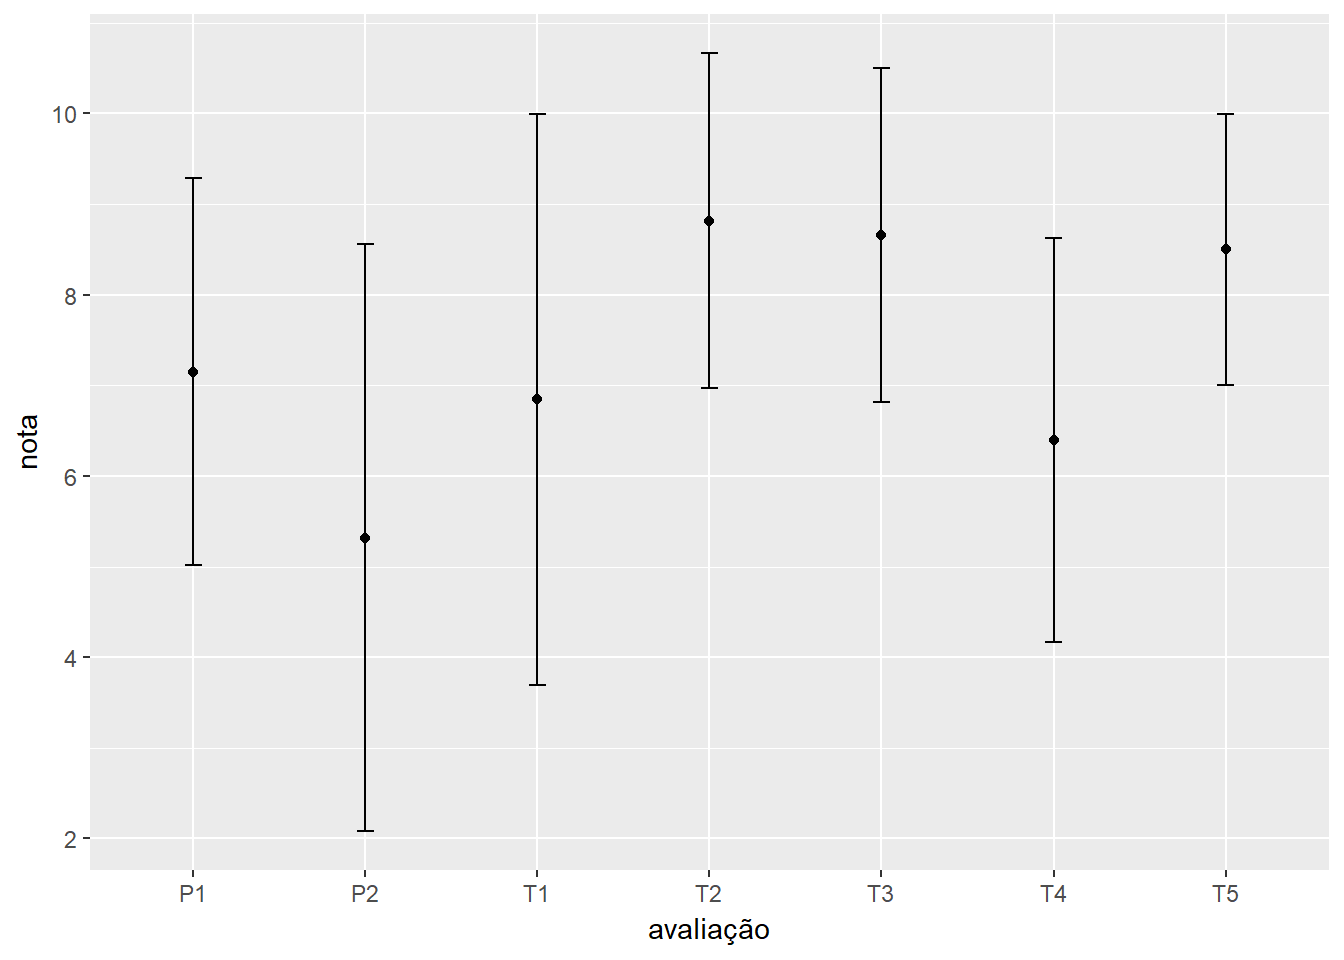
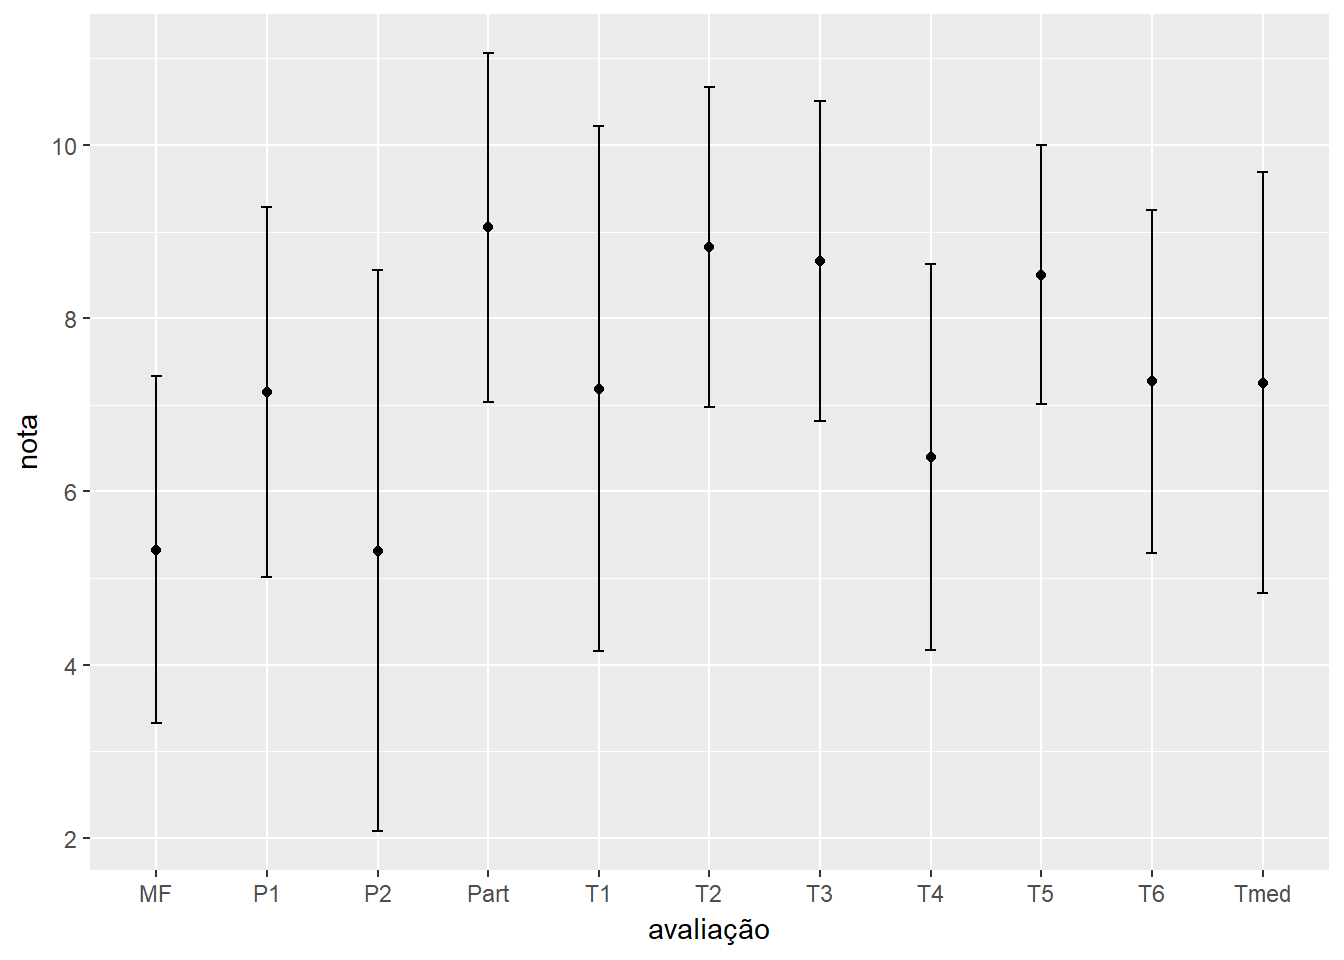
2018-2: probability 1; grade update

diff --git a/content/classes/2018_2_prob_1/grades.html b/content/classes/2018_2_prob_1/grades.html
@@ -14,7 +14,6 @@ subtitle: "2o semestre de 2018"
 <script src="/rmarkdown-libs/crosstalk/js/crosstalk.min.js"></script>
 
 
-<p>1</p>
 <div id="notas" class="section level1">
 <h1>Notas</h1>
 <ul>
@@ -24,7 +23,7 @@ subtitle: "2o semestre de 2018"
 <div id="notas-1" class="section level3">
 <h3>Notas</h3>
 <div id="htmlwidget-1" style="width:100%;height:auto;" class="datatables html-widget"></div>
-<script type="application/json" data-for="htmlwidget-1">{"x":{"filter":"none","data":[[530,560,1923,2449,2718,2728,2735,4149,4459,4843,4844,4851,4860,4861,4882,7653,7862,8172,8310,8549,8557,8584,8642,8655,8695,8897,8934],[2,7.5,9.5,8,9,9,9.5,10,0,1,2,2,8.5,7,2.5,7,1.5,9.5,9,10,9.5,5.5,8,8.5,8.5,10,3.5],[8,4.5,8,10,3.5,10,10,7,0,8,0,0,10,8,10,0,10,10,10,10,10,9,10,10,8,10,0],[10,7.5,10,0,10,10,10,6.5,0,8.5,8,0,5,6.5,10,0,7.5,10,6.5,10,10,10,10,10,4.5,10,0],[6,7.5,2,7.5,7.5,6,8,0,0,4,0,0,6.5,0,3.5,0,6,2,6,7,6,8,10,9,0,9,0],[10,7,10,7,9,5,9.5,8.5,0,0,0,0,6,0,8,0,0,8.5,8.5,10,7.5,9,9.5,10,0,10,0],[4.8,4.3,7.5,7.5,8.8,9,8.5,7.3,0,4.3,4.3,0,8,4.3,6.5,0,3.5,7.5,5.8,8.5,9,9.3,10.5,10.5,5.8,9,0],[4.5,2.5,6.5,4,6,2.5,6.8,4,0,1,0.5,0,4.8,0.5,5.8,0,1.5,8.8,8,7.5,9.5,6.8,10,9.8,1,10,0]],"container":"<table class=\"display\">\n  <thead>\n    <tr>\n      <th>RA<\/th>\n      <th>T1<\/th>\n      <th>T2<\/th>\n      <th>T3<\/th>\n      <th>T4<\/th>\n      <th>T5<\/th>\n      <th>P1<\/th>\n      <th>P2<\/th>\n    <\/tr>\n  <\/thead>\n<\/table>","options":{"dom":"ftip","columnDefs":[{"className":"dt-right","targets":[0,1,2,3,4,5,6,7]}],"order":[],"autoWidth":false,"orderClasses":false}},"evals":[],"jsHooks":[]}</script>
+<script type="application/json" data-for="htmlwidget-1">{"x":{"filter":"none","data":[[530,560,1923,2449,2718,2728,2735,4149,4843,4844,4860,4861,4882,7653,7862,8172,8310,8549,8557,8584,8642,8655,8695,8897],[2,7.5,9.5,8,9,9,9.5,10,1,2,8.5,7,2.5,7,1.5,9.5,9,10,9.5,5.5,8,8.5,8.5,10],[8,4.5,8,10,3.5,10,10,7,8,0,10,8,10,0,10,10,10,10,10,9,10,10,8,10],[10,7.5,10,0,10,10,10,6.5,8.5,8,5,6.5,10,0,7.5,10,6.5,10,10,10,10,10,4.5,10],[6,7.5,2,7.5,7.5,6,8,0,4,0,6.5,0,3.5,0,6,2,6,7,6,8,10,9,0,9],[10,7,10,7,9,5,9.5,8.5,0,0,6,0,8,0,0,8.5,8.5,10,7.5,9,9.5,10,0,10],[6,7.5,9,8,8,6,0,0,0,0,7.5,0,8,0,0,0,0,6,2,8,0,8.5,0,10],[8,7.4,9.3,8.1,8.7,8.2,9.4,6.4,4.3,2,7.7,4.3,7.9,1.4,5,8,8,9.4,8.6,8.8,9.5,9.5,4.2,10],[4.8,4.3,7.5,7.5,8.8,9,8.5,7.3,4.3,4.3,8,4.3,6.5,0,3.5,7.5,5.8,8.5,9,9.3,10.5,10.5,5.8,9],[4.5,2.5,6.5,4,6,2.5,6.8,4,1,0.5,4.8,0.5,5.8,0,1.5,8.8,8,7.5,9.5,6.8,10,9.8,1,10],[0,0,0,0,0,0,0,0,0,0,0,0,0,0,0,0,0,0,0,0,0,0,0,0],[5,10,10,10,10,0,10,10,10,5,10,10,10,0,0,5,5,10,10,10,10,10,10,10],[4.91,4.45,6.56,5.64,6.51,5.17,6.85,5,3.07,1.91,5.76,2.97,5.73,0.49,2.75,6.31,5.81,6.99,7.21,6.8,7.93,7.89,3.33,7.8]],"container":"<table class=\"display\">\n  <thead>\n    <tr>\n      <th>RA<\/th>\n      <th>T1<\/th>\n      <th>T2<\/th>\n      <th>T3<\/th>\n      <th>T4<\/th>\n      <th>T5<\/th>\n      <th>T6<\/th>\n      <th>Tmed<\/th>\n      <th>P1<\/th>\n      <th>P2<\/th>\n      <th>P3<\/th>\n      <th>Part<\/th>\n      <th>MF<\/th>\n    <\/tr>\n  <\/thead>\n<\/table>","options":{"dom":"ftip","columnDefs":[{"className":"dt-right","targets":[0,1,2,3,4,5,6,7,8,9,10,11,12]}],"order":[],"autoWidth":false,"orderClasses":false}},"evals":[],"jsHooks":[]}</script>
 </div>
 <div id="graficos" class="section level3">
 <h3>Gráficos</h3>

diff --git a/content/students.html b/content/students.html
@@ -14,5 +14,6 @@ title: "Students"
 <script src="/rmarkdown-libs/crosstalk/js/crosstalk.min.js"></script>
 
 
+<p>1</p>
 <div id="htmlwidget-1" style="width:100%;height:auto;" class="datatables html-widget"></div>
-<script type="application/json" data-for="htmlwidget-1">{"x":{"filter":"none","data":[["Gabriela Massoni","Joao Poloniato","Carolina T. S. Mello","Tatyana Zabanova","Michelle Massaro","Marcia Silva"],["Undergraduate","Master","Undergraduate","Master","Undergraduate","Undergraduate"],["2018","2018","2018","2018+","2017","2017"],["The efficiency of shared judicial staff","FBST in high dimensions","A map of administrative improbity in Brazil","Improving recommender systems with social network data","A model for child adoption matching","Using police reports to determine the reason why a person is missing"]],"container":"<table class=\"display\">\n  <thead>\n    <tr>\n      <th>name<\/th>\n      <th>level<\/th>\n      <th>year<\/th>\n      <th>topic<\/th>\n    <\/tr>\n  <\/thead>\n<\/table>","options":{"dom":"ftip","order":[],"autoWidth":false,"orderClasses":false}},"evals":[],"jsHooks":[]}</script>
+<script type="application/json" data-for="htmlwidget-1">{"x":{"filter":"none","data":[["Gabriela Massoni","Joao Poloniato","Carolina T. S. Mello","Tatyana Zabanova","Rafaela Vansan","Michelle Massaro","Marcia Silva"],["Undergraduate","Master","Undergraduate","Master","Undergraduate","Undergraduate","Undergraduate"],["2018","2018","2018","2018+","2018","2017","2017"],["The efficiency of shared judicial staff","FBST in high dimensions","A map of administrative improbity in Brazil","Improving recommender systems with social network data","Analysis of hamiltonian monte carlo","A model for child adoption matching","Using police reports to determine the reason why a person is missing"]],"container":"<table class=\"display\">\n  <thead>\n    <tr>\n      <th>name<\/th>\n      <th>level<\/th>\n      <th>year<\/th>\n      <th>topic<\/th>\n    <\/tr>\n  <\/thead>\n<\/table>","options":{"dom":"ftip","order":[],"autoWidth":false,"orderClasses":false}},"evals":[],"jsHooks":[]}</script>
